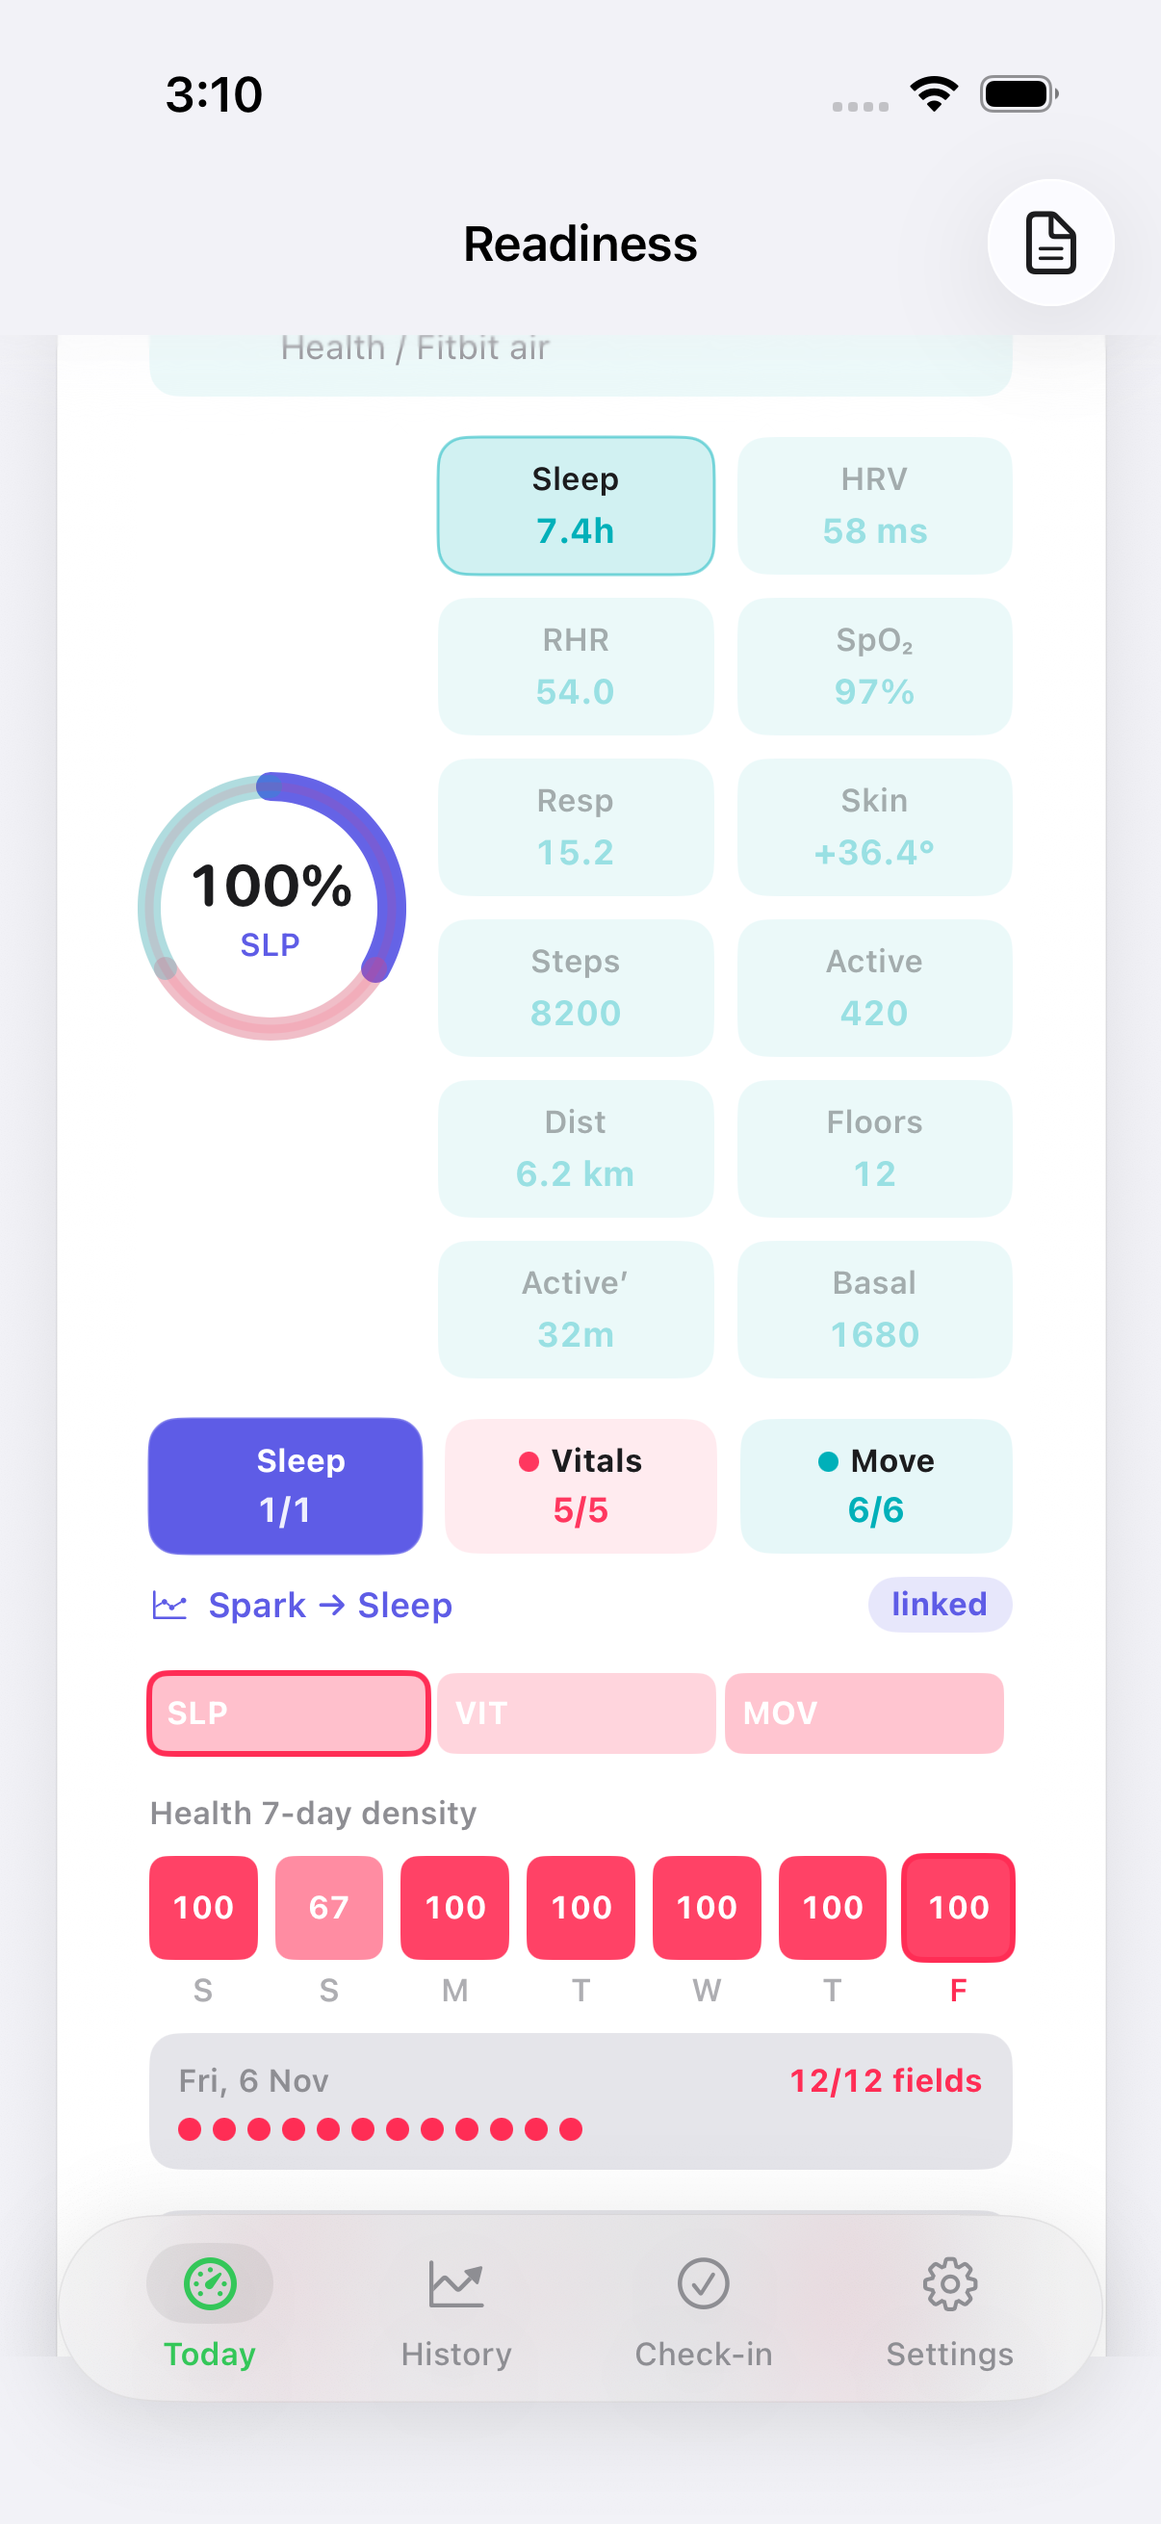
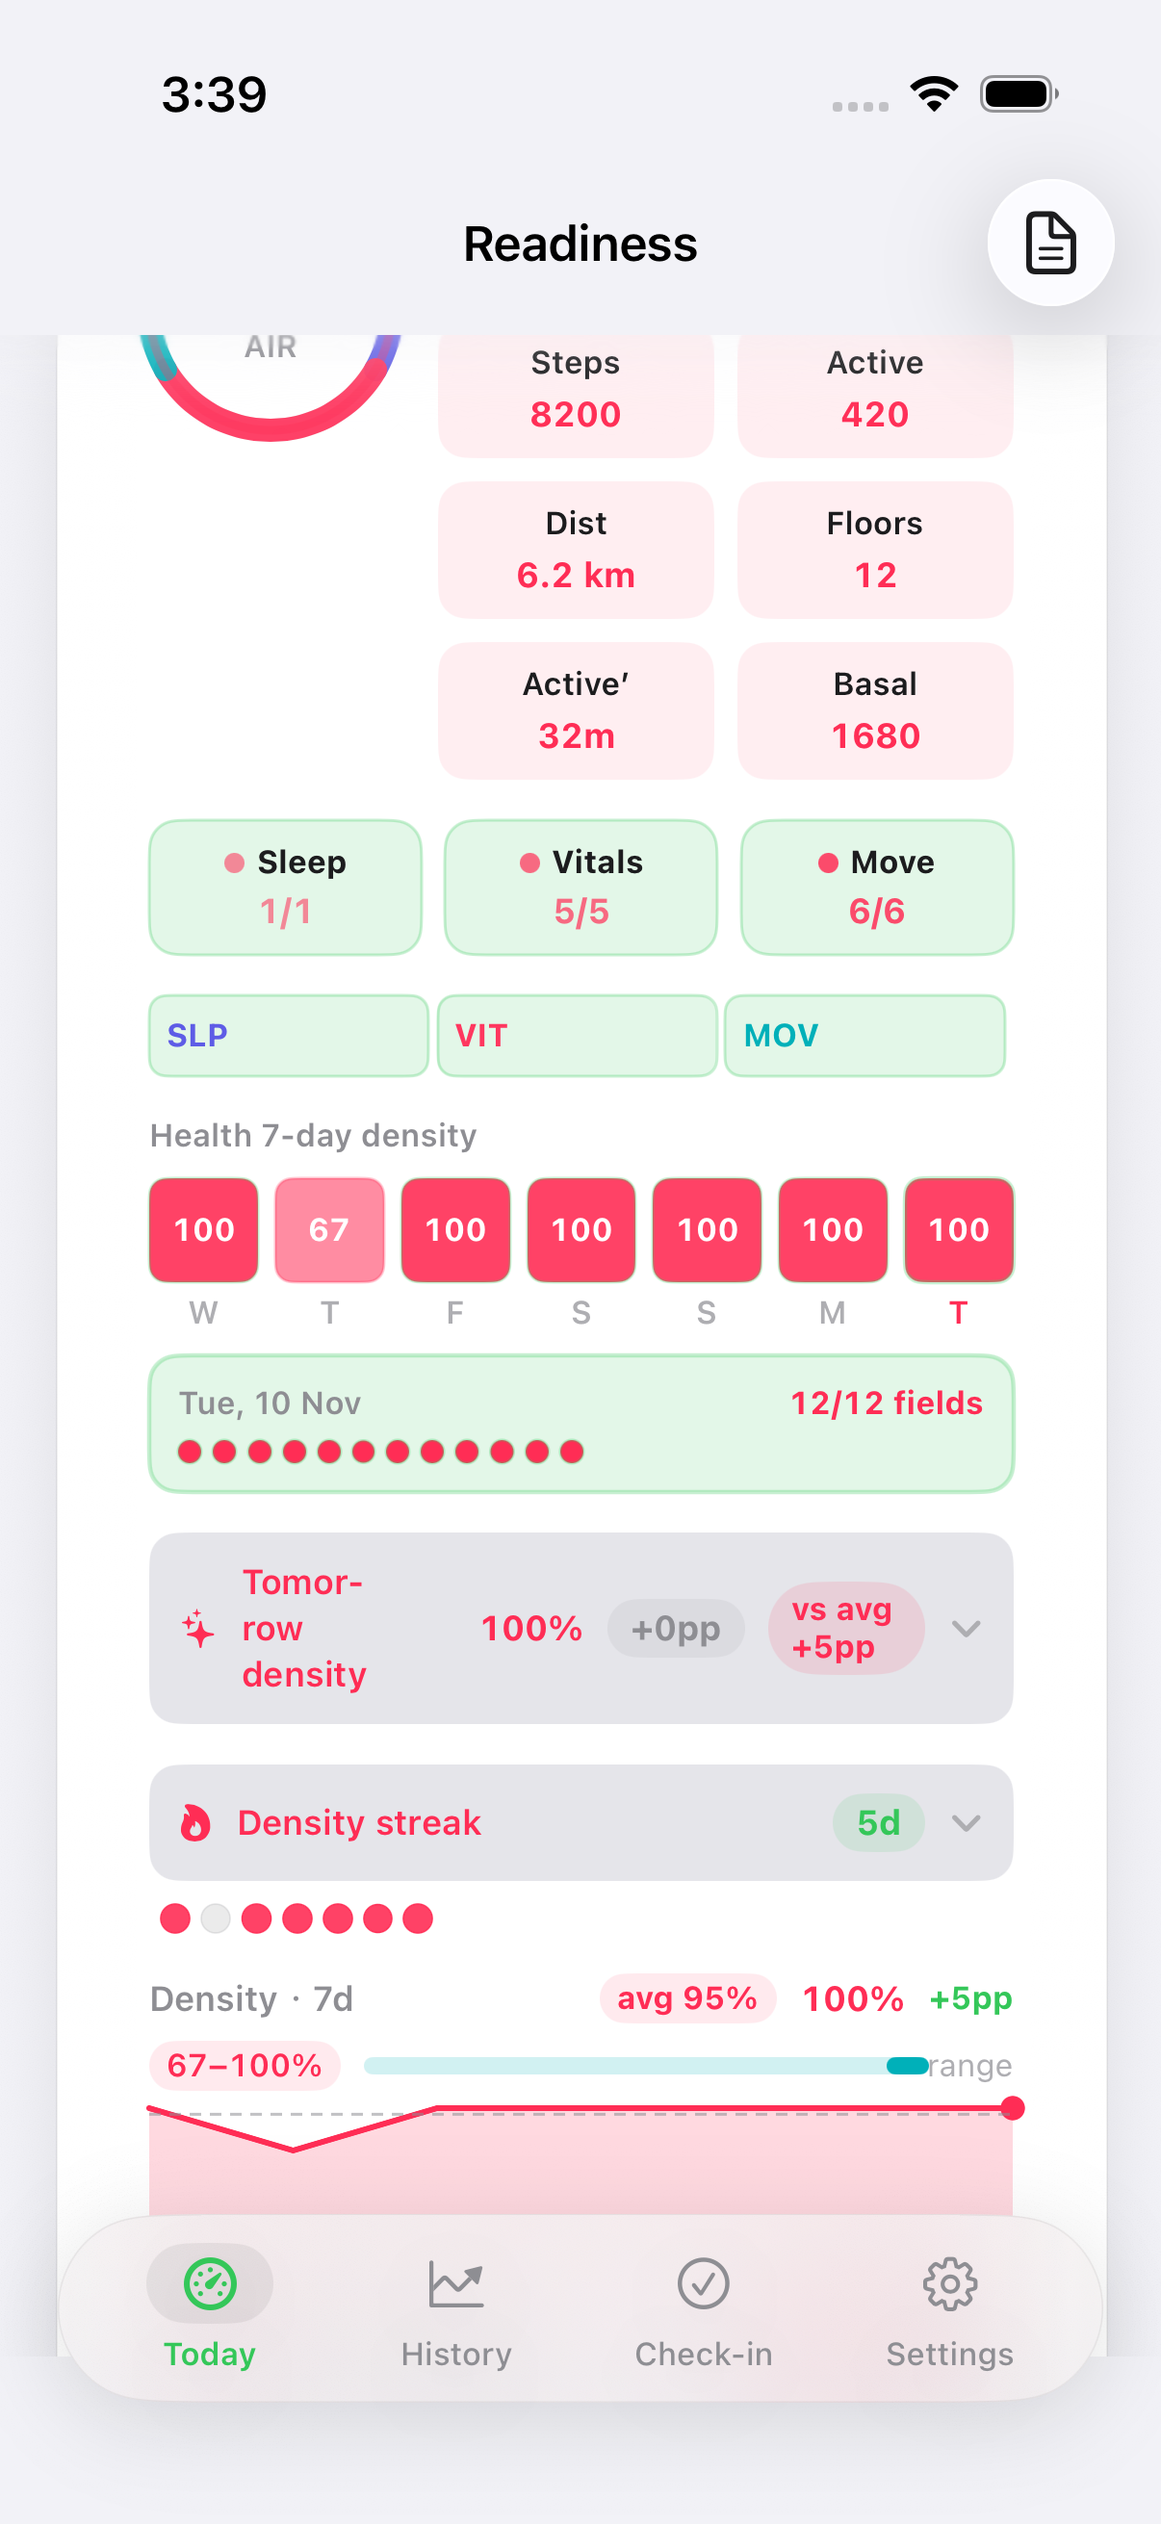
Honest #795: Density heat.day (WHOOP wells) (#825)
Chrome-only restyle of the existing fitbit.air.density.heat.day /
health.air.density.heat.day. Container: idle (filled == 0)
ghost/hairline 8/28 secondaryText; active complete (filled == total)
14/28 optimal; else/partial 14/28 accent. Selected-day container
keeps a thicker hairline. No negative state (density is
non-negative). Per-dot fill stays the filled/gap encoding (dayAccent
vs ghost) and is not replaced by a uniform 8/14 wash. Gap dots use
ghost/hairline 8/28 secondaryText; filled dots keep solid dayAccent
plus a 28% hairline in the matching complete/partial tone. Copy,
accessibilityIdentifier, accessibilityLabel, tap-to-select /
spark-scrub math, and READY formula unchanged.

UITest testDensityHeatDay passed 216.353s, 0
failures (observer 228.820s) on iPhone 17 Pro.
testReadinessLoadSimulatorSurface passed 778.339s, 0 failures
(observer 783.858s) on iPhone 17 Pro. Proof:
.audit/verify-density-heat-day.png

Changed region(s): [[0.1227, 0.1236, 0.8897, 0.8959], [0.1534, 0.0309, 0.2454, 0.0618], [0.1227, 0.1236, 0.1534, 0.1545]]

diff --git a/ReadinessTrackerUITests/SurfacesUITests.swift b/ReadinessTrackerUITests/SurfacesUITests.swift
@@ -18427,6 +18427,77 @@ func testPeakHeartRateCardMetricDetailNavSurface() throws {
         if heatHealth.exists { saveShot("verify-health-air-density-heatmap.png") }
     }
 
+    /// Honest #795: WHOOP wells on existing density heat.day strip.
+    /// Tight path: on-card 7-day heat, tap a day cell to reveal
+    /// fitbit.air.density.heat.day / health.air.density.heat.day.
+    /// Avoids the long testFitbitAirDataCardSurface walk that can hang
+    /// on spark swipe-down.
+    func testDensityHeatDay() throws {
+        _ = app.staticTexts["Readiness"].waitForExistence(timeout: 8)
+        let titleFitbit = app.staticTexts["Fitbit Air"]
+        let titleHealth = app.staticTexts["Health Air"]
+        // Titles exist in the scroll hierarchy off-screen at launch; scroll until
+        // one is actually in the visible window (exists-only loops never moved).
+        var n = 0
+        while !(isOnScreen(titleFitbit) || isOnScreen(titleHealth)) && n < 30 {
+            app.swipeUp()
+            n += 1
+        }
+        XCTAssertTrue(isOnScreen(titleFitbit) || isOnScreen(titleHealth),
+                      "Fitbit Air / Health Air on-screen")
+
+        let heatFitbit = app.descendants(matching: .any)["fitbit.air.density.heat"].firstMatch
+        let heatHealth = app.descendants(matching: .any)["health.air.density.heat"].firstMatch
+        var h = 0
+        while !(isOnScreen(heatFitbit) || isOnScreen(heatHealth)) && h < 6 {
+            app.swipeUp()
+            h += 1
+        }
+        XCTAssertTrue(heatFitbit.exists || heatHealth.exists
+                      || app.staticTexts.matching(NSPredicate(format: "label CONTAINS[c] %@", "seven day air density heatmap")).count > 0
+                      || app.staticTexts["7-day density"].exists
+                      || app.staticTexts["Health 7-day density"].exists,
+                      "fitbit.air.density.heat / health.air.density.heat")
+
+        let heat = heatFitbit.exists ? heatFitbit : heatHealth
+        // Prefer a labeled day cell so the selected-day strip actually appears.
+        let dayCell = app.descendants(matching: .any).matching(
+            NSPredicate(format: "label BEGINSWITH[c] %@", "Density day")
+        ).element(boundBy: 6)
+        if dayCell.waitForExistence(timeout: 3) {
+            if dayCell.isHittable { dayCell.tap() }
+            else { dayCell.coordinate(withNormalizedOffset: CGVector(dx: 0.5, dy: 0.5)).tap() }
+        } else if heat.exists {
+            heat.coordinate(withNormalizedOffset: CGVector(dx: 0.85, dy: 0.62)).tap()
+        }
+
+        let heatDayFitbit = app.descendants(matching: .any)["fitbit.air.density.heat.day"].firstMatch
+        let heatDayHealth = app.descendants(matching: .any)["health.air.density.heat.day"].firstMatch
+        var d = 0
+        while !(heatDayFitbit.exists || heatDayHealth.exists) && d < 4 {
+            // If the first tap missed, try a mid-row cell.
+            let mid = app.descendants(matching: .any).matching(
+                NSPredicate(format: "label BEGINSWITH[c] %@", "Density day")
+            ).element(boundBy: 3)
+            if mid.exists {
+                if mid.isHittable { mid.tap() }
+                else { mid.coordinate(withNormalizedOffset: CGVector(dx: 0.5, dy: 0.5)).tap() }
+            } else if heat.exists {
+                heat.coordinate(withNormalizedOffset: CGVector(dx: 0.5, dy: 0.62)).tap()
+            }
+            d += 1
+        }
+        XCTAssertTrue(heatDayFitbit.waitForExistence(timeout: 6)
+                      || heatDayHealth.waitForExistence(timeout: 3)
+                      || app.staticTexts.matching(NSPredicate(format: "label CONTAINS[c] %@", "fields")).count > 0
+                      || app.staticTexts.matching(NSPredicate(format: "label CONTAINS[c] %@", "Selected density day")).count > 0
+                      || app.staticTexts.matching(NSPredicate(format: "label CONTAINS[c] %@", "Health selected density day")).count > 0,
+                      "fitbit.air.density.heat.day / health.air.density.heat.day")
+        saveShot("verify-density-heat-day.png")
+        if heatDayFitbit.exists { saveShot("verify-fitbit-air-density-heat-day.png") }
+        if heatDayHealth.exists { saveShot("verify-health-air-density-heat-day.png") }
+    }
+
     private func revealText(_ text: String) {
 
         let el = app.staticTexts[text]

diff --git a/ReadinessTracker/Views/WhoopFeatures/FitbitAirDataCard.swift b/ReadinessTracker/Views/WhoopFeatures/FitbitAirDataCard.swift
@@ -895,6 +895,7 @@ struct FitbitAirDataCard: View {
 
     /// Honest #526: selected heatmap day chip-dot strip.
     /// Honest #688: appleWatch / HealthKit uses Health pink + health.air.density.heat.day (#526 parity).
+    /// Honest #795: WHOOP wells; filled/gap dot fill preserved (not flattened to 8/14 wash).
     private func heatmapDayStrip(_ day: DailyHealthData) -> some View {
         let dayChips = AirChip.all(from: day)
         let filled = dayChips.filter(\.filled).count
@@ -902,6 +903,22 @@ struct FitbitAirDataCard: View {
         let dayAccent: Color = isHealth ? Color(hex: "FF2D55") : accent
         let daySID = isHealth ? SurfaceID.healthAirDensityHeatDay : SurfaceID.fitbitAirDensityHeatDay
         let dayLabel = isHealth ? "Health selected density day field strip" : "Selected density day field strip"
+        // Honest #795: WHOOP wells on existing density heat.day strip.
+        // Per-dot fill stays the filled/gap encoding (dayAccent vs ghost)
+        // and is not replaced by a uniform 8/14 wash. Container: idle
+        // (filled == 0) ghost/hairline 8/28 secondaryText; active complete
+        // (filled == total) 14/28 optimal; else/partial 14/28 accent.
+        // Selected-day container keeps a thicker hairline. Dots: idle (gap)
+        // ghost/hairline 8/28 secondaryText; filled 28% hairline in the
+        // matching complete/partial tone. No negative state.
+        let stripIsActive = filled > 0
+        let stripComplete = !dayChips.isEmpty && filled >= dayChips.count
+        let stripWellTone: Color = !stripIsActive
+            ? RTColor.secondaryText
+            : (stripComplete ? RTColor.optimal : dayAccent)
+        let stripFill: Color = !stripIsActive
+            ? RTColor.secondaryText.opacity(0.08)
+            : stripWellTone.opacity(0.14)
         return VStack(alignment: .leading, spacing: 6) {
             HStack {
                 Text(day.date, format: .dateTime.weekday(.abbreviated).month(.abbreviated).day())
@@ -914,15 +931,26 @@ struct FitbitAirDataCard: View {
             }
             HStack(spacing: 4) {
                 ForEach(dayChips) { chip in
+                    let dotTone: Color = chip.filled
+                        ? (stripComplete ? RTColor.optimal : dayAccent)
+                        : RTColor.secondaryText
                     Circle()
-                        .fill(chip.filled ? dayAccent : RTColor.surfaceHighlight)
+                        .fill(chip.filled ? dayAccent : RTColor.secondaryText.opacity(0.08))
                         .frame(width: 8, height: 8)
+                        .overlay(
+                            Circle()
+                                .stroke(dotTone.opacity(0.28), lineWidth: 1)
+                        )
                         .accessibilityLabel("\(chip.label) \(chip.filled ? "filled" : "gap")")
                 }
             }
         }
         .padding(10)
-        .background(RTColor.surfaceHighlight, in: RoundedRectangle(cornerRadius: 10, style: .continuous))
+        .background(stripFill, in: RoundedRectangle(cornerRadius: 10, style: .continuous))
+        .overlay(
+            RoundedRectangle(cornerRadius: 10, style: .continuous)
+                .stroke(stripWellTone.opacity(0.28), lineWidth: 1.5)
+        )
         .accessibilityIdentifier(daySID)
         .accessibilityLabel(dayLabel)
     }

diff --git a/ReadinessTracker/Design/Theme.swift b/ReadinessTracker/Design/Theme.swift
@@ -236,7 +236,7 @@ enum SurfaceID {
     static let readinessSimulatorABSnapshot = "sim.load.ab.snap"  // Honest #520 / #724
     static let fitbitAirDensityRingCycle = "fitbit.air.density.cycle"  // Honest #521
     static let fitbitAirDensityHeatmap = "fitbit.air.density.heat"  // Honest #525 / #794
-    static let fitbitAirDensityHeatDay = "fitbit.air.density.heat.day"  // Honest #526
+    static let fitbitAirDensityHeatDay = "fitbit.air.density.heat.day"  // Honest #526 / #795
     static let fitbitAirDensityWow = "fitbit.air.density.wow"  // Honest #527
     static let interactiveRecoveryDialZones = "balance.dial.zones"  // Honest #522
     static let readinessSimulatorAirGapTasks = "sim.load.tasks.airgaps"  // Honest #523 / #777
@@ -381,7 +381,7 @@ enum SurfaceID {
     static let healthAirDensityCycle = "health.air.density.cycle"  // Honest #685
     static let healthAirDensityStack = "health.air.density.stack"  // Honest #686 / #793
     static let healthAirDensityWow = "health.air.density.wow"  // Honest #687
-    static let healthAirDensityHeatDay = "health.air.density.heat.day"  // Honest #688
+    static let healthAirDensityHeatDay = "health.air.density.heat.day"  // Honest #688 / #795
     static let healthAirDensitySpark = "health.air.density.spark"  // Honest #689
     static let healthAirDensityLegend = "health.air.density.legend"  // Honest #690 / #792
     static let healthAirDensity = "health.air.density"  // Honest #691

diff --git a/.audit/decision-log-2026-11-04.md b/.audit/decision-log-2026-11-04.md
@@ -616,3 +616,10 @@
 | 15:06 HKT | #794 density heatmap | prove | starting UITest testReadinessLoadSimulatorSurface /tmp/RT-DD794; model=deepseek-flash | mid-ship |
 | 15:20 HKT | #794 density heatmap | prove | UITest testReadinessLoadSimulatorSurface green /tmp/RT-DD794 (781.520s, 0 failures; observer 787.037s); model=deepseek-flash |
 | 15:20 HKT | #794 density heatmap | land | proof PNG + receipt; SID fitbit.air.density.heat / health.air.density.heat; PR squash next; model=deepseek-flash |
+| 15:29 HKT | Honest #795 density heat.day | model=deepseek-flash | restyle existing fitbit.air.density.heat.day / health.air.density.heat.day after density heat #794; WHOOP wells only; per-dot filled/gap fill preserved (dayAccent vs ghost, not flattened to 8/14 wash); container idle (filled == 0) ghost/hairline 8/28 secondaryText; active complete (filled == total) 14/28 optimal; else/partial 14/28 accent; selected-day thicker hairline; gap dots ghost/hairline 8/28 secondaryText; filled dots 28% hairline matching complete/partial tone; no negative state; mechanical pattern-copy of #794 applied locally (no separate model iterate needed) | mid-ship |
+| 15:29 HKT | Honest #795 density heat.day | prove | starting build-for-testing /tmp/RT-DD795; model=deepseek-flash | mid-ship |
+| 15:35 HKT | #795 density heat.day | prove | starting tight UITest testDensityHeatDay /tmp/RT-DD795; model=deepseek-flash | mid-ship |
+| 15:40 HKT | #795 density heat.day | prove | UITest testDensityHeatDay green /tmp/RT-DD795 (216.353s, 0 failures; observer 228.820s); proof .audit/verify-density-heat-day.png; model=deepseek-flash | mid-ship |
+| 15:40 HKT | #795 density heat.day | prove | starting UITest testReadinessLoadSimulatorSurface /tmp/RT-DD795; model=deepseek-flash | mid-ship |
+| 15:54 HKT | #795 density heat.day | prove | UITest testReadinessLoadSimulatorSurface green /tmp/RT-DD795 (778.339s, 0 failures; observer 783.858s); model=deepseek-flash | mid-ship |
+| 15:54 HKT | #795 density heat.day | land | proof PNG + receipt; SID fitbit.air.density.heat.day / health.air.density.heat.day; PR squash next; model=deepseek-flash |

diff --git a/.audit/features/density-heat-day.md b/.audit/features/density-heat-day.md
@@ -1,0 +1,8 @@
+# Honest #526 / #688 / #795: Density heat.day (WHOOP wells)
+
+Chrome-only WHOOP wells on the existing density heat.day strip (`fitbit.air.density.heat.day` / `health.air.density.heat.day`).
+Container: idle (filled == 0) = ghost/hairline 8/28 secondaryText; active complete (filled == total) = 14/28 optimal; else/partial = 14/28 accent. Selected-day container keeps a thicker hairline. No negative state (density is non-negative).
+Per-dot fill stays the filled/gap encoding (dayAccent vs ghost) and is not replaced by a uniform 8/14 wash. Gap dots use ghost/hairline 8/28 secondaryText; filled dots keep solid dayAccent plus a 28% hairline in the matching complete/partial tone.
+Copy, accessibilityIdentifier, accessibilityLabel, tap-to-select / spark-scrub math, and READY formula unchanged.
+SurfaceID: `fitbit.air.density.heat.day` / `health.air.density.heat.day`
+Proof: UITest → `.audit/verify-density-heat-day.png`

diff --git a/.audit/density-heat-day.md b/.audit/density-heat-day.md
@@ -1,0 +1,10 @@
+# Honest #526 / #688 / #795: Density heat.day (WHOOP wells)
+
+Fitbit/Health selected-day chip-dot strip under the 7-day density heatmap.
+Chrome-only WHOOP wells on the existing Honest #526 / #688 heat.day strip.
+Container: idle (filled == 0) = ghost/hairline 8/28 secondaryText; active complete (filled == total) = 14/28 optimal; else/partial = 14/28 accent. Selected-day container keeps a thicker hairline.
+Dots: idle (gap) = ghost/hairline 8/28 secondaryText; filled = solid dayAccent fill (filled/gap encoding preserved, not flattened to a uniform 8/14 wash) plus 28% hairline in the matching complete/partial tone.
+No negative state (density is non-negative).
+Copy, accessibilityIdentifier, accessibilityLabel, tap-to-select / spark-scrub math, and READY formula unchanged.
+SurfaceID: `fitbit.air.density.heat.day` / `health.air.density.heat.day`
+Proof: `.audit/verify-density-heat-day.png`

diff --git a/.audit/features/health-air-density-heat-day.md b/.audit/features/health-air-density-heat-day.md
@@ -1,7 +1,6 @@
-# Honest #688: Health Air density heat.day
+# Honest #688 / #795: Health Air density heat.day (WHOOP wells)
 
-Selected heatmap day chip-dot strip — Health pink / Google Health graphics.
+Selected heatmap day chip-dot strip (Health pink / Google Health graphics) — chrome-only WHOOP wells. Per-dot filled/gap fill preserved.
 SurfaceID: `health.air.density.heat.day`
 Parity: Fitbit #526 (`fitbit.air.density.heat.day`)
-Proof: `.audit/verify-health-air-density-heat-day.png`
-model=deepseek-flash
+Proof: `.audit/verify-density-heat-day.png` / `.audit/verify-health-air-density-heat-day.png`

diff --git a/.audit/health-air-density-heat-day.md b/.audit/health-air-density-heat-day.md
@@ -1,7 +1,6 @@
-# Honest #688: Health Air density heat.day
+# Honest #688 / #795: Health Air density heat.day (WHOOP wells)
 
-Selected heatmap day chip-dot strip — Health pink / Google Health graphics.
+Selected heatmap day chip-dot strip (Health pink / Google Health graphics) — chrome-only WHOOP wells. Per-dot filled/gap fill preserved.
 SurfaceID: `health.air.density.heat.day`
 Parity: Fitbit #526 (`fitbit.air.density.heat.day`)
-Proof: `.audit/verify-health-air-density-heat-day.png`
-model=deepseek-flash
+Proof: `.audit/verify-density-heat-day.png` / `.audit/verify-health-air-density-heat-day.png`

diff --git a/.audit/fitbit-air-density-heat-day.md b/.audit/fitbit-air-density-heat-day.md
@@ -1,4 +1,3 @@
-Honest #526: Fitbit Air heatmap day selection strip
+Honest #526 / #795: Fitbit Air heatmap day selection strip (WHOOP wells)
 SurfaceID fitbit.air.density.heat.day
-Proof: UITest testFitbitAirDataCardSurface PASS iPhone 17 Pro 26.5
-.audit/verify-fitbit-air-density-heat-day.png
+Proof: UITest testDensityHeatDay → .audit/verify-density-heat-day.png / .audit/verify-fitbit-air-density-heat-day.png
